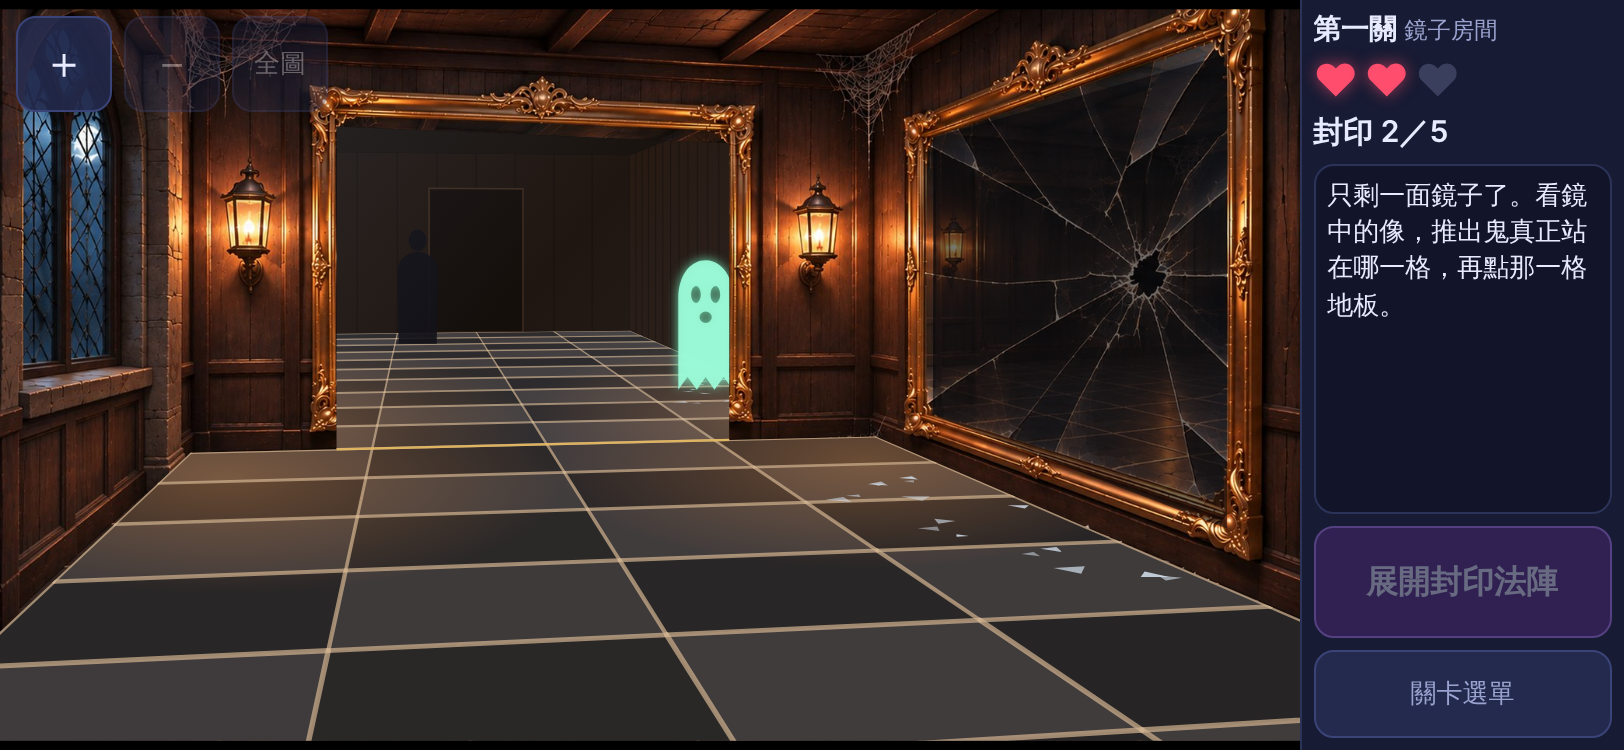
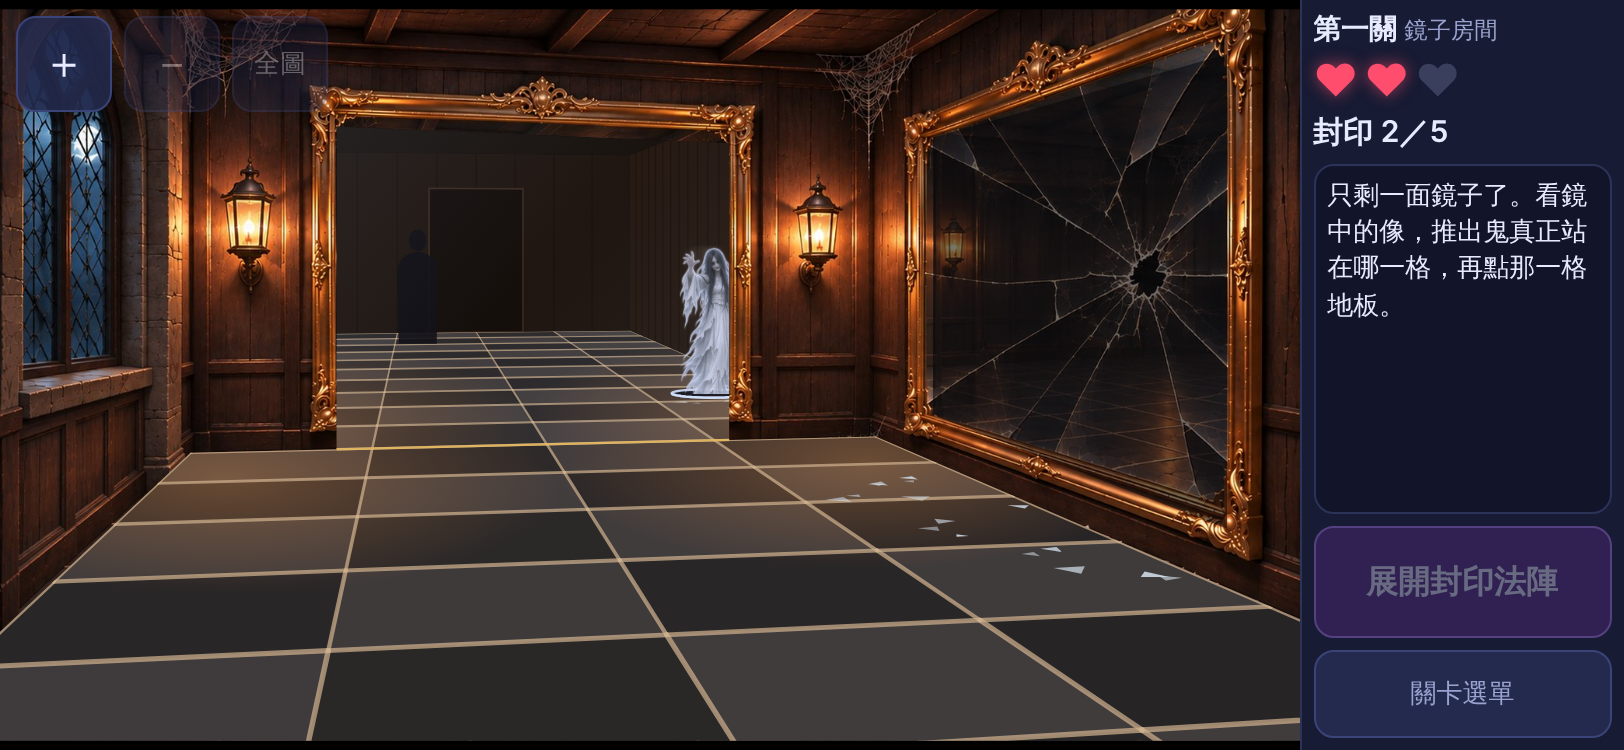
feat: level 1 uses the woman ghost art, rising from a pool on the floor
Claude-Session: https://claude.ai/code/session_01HvGmyTGiFBo42Y4CfnbQZX

Changed region(s): [[0.4002, 0.3373, 0.4618, 0.552]]

diff --git a/prototype/plane-mirror/app.js b/prototype/plane-mirror/app.js
@@ -25,7 +25,19 @@
     a.img.src = src;
     return a;
   }
-  var ART = { intact: loadArt('assets/room-intact.jpg'), broken: loadArt('assets/room-broken.jpg') };
+  var ART = { intact: loadArt('assets/room-intact.jpg'), broken: loadArt('assets/room-broken.jpg'), ghost: loadArt('assets/ghost.webp') };
+  // 測試用：把鬼畫成單一顏色的剪影，測試才能用顏色數「鬼出現在哪裡」（見 __protoMirror.setMask）
+  var ghostMask = null;
+  function maskImage() {
+    if (!ghostMask && ART.ghost.ready) {
+      ghostMask = document.createElement('canvas');
+      ghostMask.width = ART.ghost.img.width; ghostMask.height = ART.ghost.img.height;
+      var m = ghostMask.getContext('2d');
+      m.drawImage(ART.ghost.img, 0, 0);
+      m.globalCompositeOperation = 'source-in'; m.fillStyle = GHOST_COLOR; m.fillRect(0, 0, ghostMask.width, ghostMask.height);
+    }
+    return ghostMask;
+  }
 
   // ---------- 狀態 ----------
   var POOLS = { 1: C.eligibleCells(R, cam, ['back', 'right']), 2: C.eligibleCells(R, cam, ['back']) };
@@ -38,7 +50,7 @@
     cast: null,        // 進行中的法陣 {cell, t0, ok}
     busy: false,
     lives: R.lives, sealed: 0, over: false,
-    debug: false, fx: null, forced: null
+    debug: false, fx: null, forced: null, mask: false
   };
   var stats = { casts: 0, wrong: 0, mirrorTaps: 0, pans: 0, ghostRevealed: false, images: { back: false, right: false }, lastPick: null };
   var scene = null, history = [];
@@ -221,21 +233,52 @@
     ctx.restore();
     return (tl.depth + bl.depth) / 2;
   }
-  // 鬼的 placeholder：單位方格內的形狀，左右不對稱（一隻小手在牠自己的一側）
+  // 鬼：女鬼圖（已在裙襬切平，底邊就是地板）。圖還沒載入時先畫一個簡單的形狀。
   function ghostPainter(alpha) {
     return function () {
       ctx.globalAlpha *= alpha;
-      ctx.shadowColor = 'rgba(120,255,200,.9)'; ctx.shadowBlur = 14 * S * DPR;
+      var img = state.mask ? maskImage() : (ART.ghost.ready ? ART.ghost.img : null);
+      if (img) { ctx.drawImage(img, 0, 0, 1, 1); return; }
       ctx.fillStyle = GHOST_COLOR;
       ctx.beginPath();
-      ctx.moveTo(0.14, 0.97); ctx.lineTo(0.14, 0.33); ctx.bezierCurveTo(0.14, -0.03, 0.76, -0.03, 0.76, 0.33); ctx.lineTo(0.76, 0.97);
-      ctx.lineTo(0.655, 0.88); ctx.lineTo(0.55, 0.97); ctx.lineTo(0.45, 0.88); ctx.lineTo(0.35, 0.97); ctx.lineTo(0.245, 0.88);
-      ctx.closePath();
-      var e = function (x, y, rx, ry) { ctx.moveTo(x + rx, y); ctx.ellipse(x, y, rx, ry, 0, 0, Math.PI * 2); };
-      e(0.34, 0.30, 0.055, 0.06); e(0.56, 0.30, 0.055, 0.06); e(0.45, 0.46, 0.07, 0.04);
-      e(0.90, 0.40, 0.095, 0.062);
-      ctx.fill('evenodd');
+      ctx.moveTo(0.2, 1); ctx.lineTo(0.3, 0.3); ctx.bezierCurveTo(0.3, 0, 0.7, 0, 0.7, 0.3); ctx.lineTo(0.8, 1);
+      ctx.closePath(); ctx.fill();
     };
+  }
+  // 鬼從地板冒出來的地方：格子中央一圈暗色的漩渦。有了它才看得出牠站在哪一格。
+  // part = 'under'：畫在鬼的後面（整圈）；'over'：只畫靠近玩家的半圈邊，蓋在裙襬上。
+  function drawPool(T, cell, part, alpha) {
+    var c = C.cellCenter(cell.col, cell.row), r = R.ghost.poolRadius, pts = [], i, s, n = 36;
+    var mid = proj(T, c);
+    if (!mid) return;
+    for (i = 0; i < n; i++) {
+      s = proj(T, { x: c.x + Math.cos(i / n * 6.2832) * r, y: 0, z: c.z + Math.sin(i / n * 6.2832) * r });
+      if (!s) return;
+      pts.push(s);
+    }
+    ctx.save();
+    ctx.globalAlpha *= alpha;
+    ctx.lineJoin = 'round'; ctx.lineCap = 'round';
+    ctx.strokeStyle = state.mask ? GHOST_COLOR : 'rgba(214,228,255,.95)';
+    ctx.lineWidth = Math.max(2, Math.min(7, 34 / mid.depth));
+    if (part === 'under') {
+      path(pts); ctx.fillStyle = state.mask ? GHOST_COLOR : 'rgba(6,8,20,.82)'; ctx.fill(); ctx.stroke();
+    } else {
+      ctx.beginPath();
+      var started = false;
+      for (i = 0; i <= n; i++) {
+        s = pts[i % n];
+        if (s.depth < mid.depth) { if (started) ctx.lineTo(s.x, s.y); else { ctx.moveTo(s.x, s.y); started = true; } }
+        else started = false;
+      }
+      ctx.stroke();
+    }
+    ctx.restore();
+  }
+  function drawGhost(T, alpha) {
+    drawPool(T, state.ghost, 'under', alpha);
+    drawSprite(T, C.ghostQuad(R, state.ghost), ghostPainter(alpha));
+    drawPool(T, state.ghost, 'over', alpha);
   }
   function playerPainter() {
     ctx.fillStyle = 'rgba(14,12,18,.9)';
@@ -274,11 +317,11 @@
       path(p); ctx.strokeStyle = '#b8873a'; ctx.lineWidth = Math.max(2, 26 / avgDepth(p) * 2.2); ctx.lineJoin = 'round'; ctx.stroke();
     });
     // 人形：遠的先畫
-    var sprites = [{ quad: playerQuad(), painter: playerPainter }];
-    if (state.ghost) sprites.push({ quad: C.ghostQuad(R, state.ghost), painter: ghostPainter(state.revealed ? 1 : 0.93) });
+    var sprites = [{ quad: playerQuad(), draw: function () { drawSprite(T, playerQuad(), playerPainter); } }];
+    if (state.ghost) sprites.push({ quad: C.ghostQuad(R, state.ghost), draw: function () { drawGhost(T, state.revealed ? 1 : 0.95); } });
     sprites.forEach(function (s) { var q = proj(T, s.quad.bl); s.d = q ? q.depth : -1; });
     sprites.sort(function (a, b) { return b.d - a.d; });
-    sprites.forEach(function (s) { if (s.d > 0) drawSprite(T, s.quad, s.painter); });
+    sprites.forEach(function (s) { if (s.d > 0) s.draw(); });
     // 玻璃的一點反光（第一層才加）
     if (chain.length === 1) {
       var bb = bounds(clip), gr = ctx.createLinearGradient(bb.x0, bb.y0, bb.x1, bb.y1);
@@ -377,7 +420,7 @@
       drawMagicCircle(state.cast.cell, alpha, 1 - Math.pow(1 - grow, 3), now / 900);
       if (state.cast.ok || t < CAST_GROW + CAST_FADE) animating = true;
     }
-    if (state.revealed && state.ghost) drawSprite(C.IDENTITY, C.ghostQuad(R, state.ghost), ghostPainter(1));
+    if (state.revealed && state.ghost) drawGhost(C.IDENTITY, 1);
 
     if (state.debug) drawDebug();
     if (flash > 0) { ctx.fillStyle = 'rgba(255,255,255,' + flash.toFixed(3) + ')'; ctx.fillRect(0, 0, IW, IH); }
@@ -609,7 +652,7 @@
   }
   function showClear() {
     scene = window.StoryScene.show({
-      id: 'clear', background: 'assets/room-broken.jpg', scatter: 1,
+      id: 'clear', background: 'assets/room-broken.jpg',
       lines: [
         { text: '鬼被抓了五次，再也待不住了——' },
         { text: '牠尖叫著衝出房門，逃進了走廊！' },
@@ -659,7 +702,8 @@
     state: state, stats: stats, room: R, core: C, cam: cam, FREE: FREE, pools: POOLS, selectable: SELECTABLE, GHOST_COLOR: GHOST_COLOR,
     intactMirrors: intactMirrors, render: render,
     scene: function () { return scene ? scene.info() : null; },
-    art: function () { return { intact: ART.intact.ready, broken: ART.broken.ready }; },
+    art: function () { return { intact: ART.intact.ready, broken: ART.broken.ready, ghost: ART.ghost.ready }; },
+    setMask: function (on) { state.mask = !!on; render(); },
     canvasInfo: function () { return { W: W, H: H, DPR: DPR, S: S, OX: OX, OY: OY, zoom: ZOOMS[view.zoom] }; },
     // 影像座標 → 網頁座標（測試用來算該點哪裡）
     toClient: function (p) { var r = canvas.getBoundingClientRect(); return { x: r.left + OX + p.x * S, y: r.top + OY + p.y * S }; },

diff --git a/tests/e2e-plane-mirror.js b/tests/e2e-plane-mirror.js
@@ -55,7 +55,7 @@ async function open(profile, browser, query) {
   page.on('console', (m) => { if (m.type() === 'error') errors.push(m.text()); });
   page.on('requestfailed', (r) => errors.push('request failed: ' + r.url()));
   await page.goto(BASE + '/prototype/plane-mirror/index.html' + query);
-  await page.waitForFunction(() => window.__protoMirror && window.__protoMirror.art().intact && window.__protoMirror.art().broken);
+  await page.waitForFunction(() => window.__protoMirror && window.__protoMirror.art().intact && window.__protoMirror.art().broken && window.__protoMirror.art().ghost);
   const tapAt = (x, y) => profile.touch ? page.touchscreen.tap(x, y) : page.mouse.click(x, y);
   const press = (sel) => profile.touch ? page.tap(sel) : page.click(sel);
   const info = () => page.evaluate(() => {
@@ -67,10 +67,11 @@ async function open(profile, browser, query) {
       castHidden: document.getElementById('castBtn').hidden, nextHidden: document.getElementById('nextBtn').hidden, nextText: document.getElementById('nextBtn').textContent,
       zoom: m.canvasInfo().zoom };
   });
+  // 鬼現在是圖片（女鬼），沒有固定的顏色；測試時請頁面把鬼（和牠腳下那一圈）畫成單色剪影。
   // 數畫布上「鬼的顏色」與「選格標示的顏色」的像素，分成鏡面內、鏡面外
   const pixels = () => page.evaluate(() => {
     const m = window.__protoMirror, ci = m.canvasInfo(), cv = document.getElementById('view');
-    m.render();
+    m.setMask(true); // 鬼畫成單色剪影，才能用顏色數
     const d = cv.getContext('2d').getImageData(0, 0, cv.width, cv.height).data;
     const polys = m.intactMirrors().map((id) => m.glassPoly(id));
     const out = { ghostIn: 0, ghostOut: 0, pickIn: 0, pickOut: 0, magicIn: 0, magicOut: 0 };
@@ -86,6 +87,7 @@ async function open(profile, browser, query) {
       if (pick) out[inside ? 'pickIn' : 'pickOut']++;
       if (magic) out[inside ? 'magicIn' : 'magicOut']++;
     }
+    m.setMask(false);
     return out;
   });
   const cellPt = (cell) => page.evaluate((c) => { const m = window.__protoMirror; return m.cellClient(Number(c[1]), Number(c[3])); }, cell);

diff --git a/prototype/plane-mirror/configs.js b/prototype/plane-mirror/configs.js
@@ -23,7 +23,9 @@
     rows: 4,          // 由正面牆往玩家數，畫面上完整看得到的排數（第 5 排已經超出畫面下緣）
     length: 10,       // 房間深度：玩家背後那面牆在 z = 10
     ceiling: 2.3,
-    ghost: { width: 0.7, height: 1.1 },
+    // 鬼：docs/concepts/ghost01.png 的女鬼。原圖裙襬收成一個尖、看起來懸空，沒辦法判斷牠站在哪一格，
+    // 所以把圖在裙子還很寬的地方（原圖 y=1390）切平，讓牠像從地板冒出來；切口中央對準格子中央。
+    ghost: { width: 0.58, height: 1.15, poolRadius: 0.30 },
     mirrors: {
       back:  { axis: 'z', value: 0, label: '正面的鏡子', glass: { a: 0.80, b: 3.09, topA: 1.84, topB: 1.77, bottom: 0 } },
       right: { axis: 'x', value: 4, label: '右邊的鏡子', glass: { a: 0.96, b: 3.75, topA: 1.75, topB: 1.83, bottom: 0 } }

diff --git a/PROJECT.md b/PROJECT.md
@@ -46,7 +46,8 @@
 - 凸透鏡配置 A～D 的放大像超出布幕：**接受現狀，不調配置**（使用者試玩後認為可以：按「標記實像」系統就會標出像的位置）。
 - 鬼的角色圖換上原型：**之後另外做一輪**，不和第二關流程混在一起。
 - 第一關（平面鏡）一共抓 5 次，是**同一隻鬼**：開場鬼出現在鏡子裡 → 兩面鏡時抓 2 次 → 鬼生氣打碎一面鏡 → 單面鏡再抓 3 次 → 過關劇情：鬼生氣跑出房間到走廊 → 開啟第二關（凸透鏡走廊）。（使用者 2026-11-17 第二次討論定案；細節待確認事項見交接點。）
-- 第一關的鬼先用現有 placeholder；換成女鬼圖是之後另一輪。
+- ~~第一關的鬼先用現有 placeholder~~ → 使用者 2026-11-17 試玩後改定：**第一關的鬼用女鬼圖（`docs/concepts/ghost01.png`）**，而且**要從地板冒出來、不能懸空**（懸空就沒辦法判斷牠站在哪一格）。已實作：圖在裙襬還寬的地方切平、切口對準格子中央，腳下畫一圈漩渦。
+- 使用者 2026-11-17 試玩後：**平面鏡要換成落地鏡，目前的樣子很難玩**。程式已把鏡面畫到地板，但鏡子小、玩家離得遠，還是難玩；要靠重畫背景圖解決（提示詞已給使用者，見交接點）。
 - 第一關規則（使用者 2026-11-17「照建議」）：抓錯後鬼**不換位置**，抓到才換；3 條命**整關共用**，打碎鏡子不補命；點鏡子裡的像**只提醒、不扣命**；被打碎的是**右牆那面鏡**（照 `Mirror2.png`）；台詞由 AI 起草、使用者看過再定（草稿列在 `docs/prototype-findings-mirror.md` 第 13 點，尚未確認）。
 - 第一關的畫面做法（使用者 2026-11-17 提的「把鏡子與地板挖空」）：背景圖只留牆、鏡框、燈、窗；**地板與鏡中畫面由程式依幾何畫**，不用圖裡畫死的反射。
 - 平面鏡的鏡面要**落地**（程式把鏡面畫到地板，蓋掉原圖下框）。理由是實測的幾何：下緣離地 0.25 格就會擋住鏡後最近 2.2 格地板，學生沒辦法數格子（`docs/prototype-findings-mirror.md` ISSUE 1）。這和原本定案的「由地板延伸到天花板」一致。
@@ -220,6 +221,7 @@
   1. 鏡子裡的格子在手機上很小（相鄰兩排的像只差約 7 CSS px），已加棋盤格地板與縮放鈕，但數不數得出來要真人試。
   2. 以這張背景圖的視角，右鏡只照得到右後角落；雙鏡出題格只有 6 格，最左一欄永遠不出題。
   3. 地板最遠一排在手機上只有約 14 CSS px 高。
+- **使用者第一次試玩的回饋（2026-11-17，電腦）**：(1) placeholder 鬼不適合，換女鬼、要從地板冒出來 → 已改。(2) 要換成落地鏡，不然很難玩 → 已給使用者一段重畫背景的提示詞（落地鏡、玩家站近、鏡面留空）；新圖到了要重新量相機參數（`configs.js`）並重算出題格。在新圖到之前要不要先由程式畫大面的落地鏡蓋掉原圖鏡框，等使用者回答。
 - 等使用者回覆：PENDING 13 的各項。
 - 使用者手上有兩段給美工 AI 的提示詞（地磚貼圖、有門那面牆的正面圖），圖到了再換上；目前地板與鏡中的牆都是程式畫的。
 - **拖曳連線由另一台電腦的 Claude 在做**（凸、凹透鏡），這個分支沒有碰那兩個原型。

diff --git a/docs/prototype-findings-mirror.md b/docs/prototype-findings-mirror.md
@@ -111,3 +111,19 @@
 3. 地磚貼圖、門那面牆的圖到了之後換上（提示詞已給使用者）。
 4. 把 `ghost01.png` 換上三個原型（另一輪）。
 5. 三關共用的關卡選單與解鎖。
+
+---
+
+## 追加：使用者第一次試玩（2026-11-17，電腦，線上版）
+
+回饋兩點：
+
+1. **原本的 placeholder 鬼不適合第一關，要換成女鬼；而且要從地板冒出來，不能懸空，不然玩家無法估測位置。**
+   已改：用 `docs/concepts/ghost01.png`（裁切縮小成 `prototype/plane-mirror/assets/ghost.webp`）。原圖裙襬收成一個尖、看起來飄在空中，所以在裙子還很寬的地方（原圖 y=1390）切平，切口中央對準格子中央；腳下加一圈暗色漩渦（亮邊），靠近玩家的半圈邊蓋在裙襬上，看起來像從地板冒出來。漩渦和鬼一樣只在鏡子裡看得到，抓到之後才出現在房間裡。
+   - 鬼的大小改為寬 0.58 格、高 1.15 格。雙鏡出題格因此變成 4 格（c3r1、c3r2、c4r2、c4r3），單鏡仍是 10 格。
+   - 測試原本用鬼體色數像素；現在鬼是圖片，改成測試時請頁面把鬼畫成單色剪影（`__protoMirror.setMask`）。幾何 279/279、e2e 148/148。
+   - 過關演出裡往外逃的薄荷綠小鬼（共用元件的 placeholder）在第一關拿掉了。
+   - 上面 ISSUE 6（正面鏡裡的像沒有左右相反）換成女鬼後更看得出來：牠舉手的那一側，在正面鏡裡和現身時同一邊，在右鏡裡才相反。
+
+2. **真的該換成落地鏡，不然很難玩。**
+   程式已經把鏡面畫到地板，但鏡子本身小、玩家離正面牆遠（ISSUE 2、3），還是難玩。這要靠換背景圖：落地鏡、鏡子寬、玩家站近。已給使用者提示詞。

diff --git a/docs/concepts/README.md b/docs/concepts/README.md
@@ -52,7 +52,7 @@ GPT 後續會負責概念美術與視覺 refinement，目前 prototype 可以放
 - 火把是背景的一部分，位置固定，與鬼無關。
 - **布幕還沒有圖**：目前是程式畫的 placeholder。需要的是「正面看」的一塊布幕（接近正方形、中央留空、素面、偏暗的環境光），側面在走廊裡只是一條細線，不需要另外出圖。
 
-## 鬼：`ghost01.png`（已有圖，原型尚未換上）
+## 鬼：`ghost01.png`（第一關已換上；凸、凹透鏡原型尚未換上）
 
 > 2026-11-17：使用者放入 `ghost01.png`。1060×1484（5:7）、透明背景；長髮白衣、右手高舉、左手持短刀，上下左右都不對稱，符合下面的規格。
 > 整隻鬼都是半透明的（沒有完全不透明的像素），四周有一圈去背留下的淡色光暈，邊緣不平整、帶一點藍黃色邊；疊在暗色背景上看得出來。
